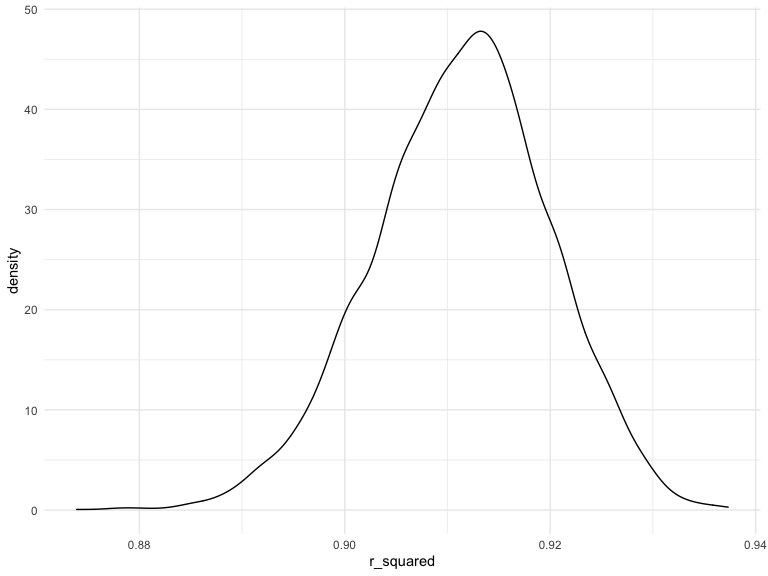
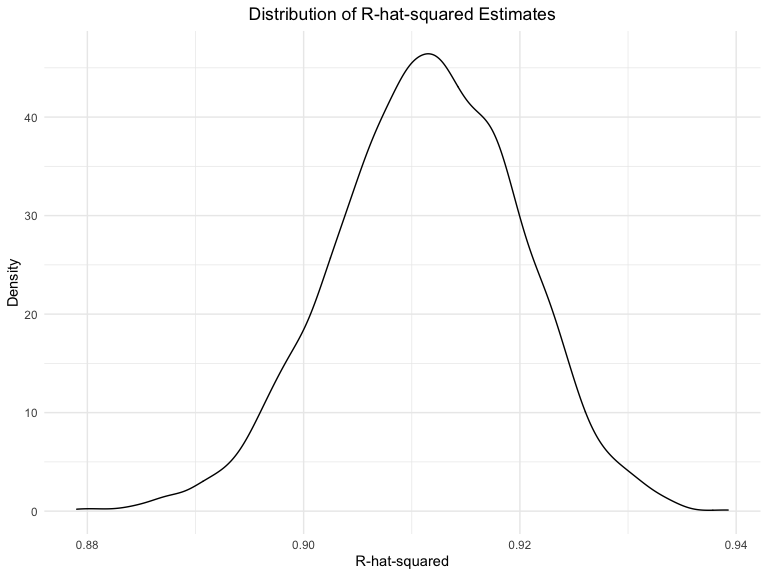
text description, reference, ggplots labels and titles updated

diff --git a/p8105_hw6_pw2551.md b/p8105_hw6_pw2551.md
@@ -12,6 +12,13 @@ library(modelr)
 library(patchwork)
 ```
 
+Set the seed to ensure I can get the same results each time I ran my
+code
+
+``` r
+set.seed(100) 
+```
+
 ## Problem 1
 
 #### Data Preprocessing
@@ -25,7 +32,7 @@ birth_weight_df = read_csv("./data/birthweight.csv") %>%
          malform = as.factor(malform),
          frace = as.factor(frace),
          mrace = as.factor(mrace))
-knitr::kable(birth_weight_df[1:7,])
+knitr::kable(birth_weight_df[1:7,])  # choose to display first 7 rows on purpose
 ```
 
 | babysex | bhead | blength |  bwt | delwt | fincome | frace | gaweeks | malform | menarche | mheight | momage | mrace | parity | pnumlbw | pnumsga |    ppbmi | ppwt | smoken | wtgain |
@@ -61,27 +68,28 @@ could affect infants’ birth weights: “Low birth weight is associated
 with many socio-economic factors such as residence, mother’s age and
 occupation, birth order, the family’s income and many maternal
 conditions such as nutritional status, mother’s educational and health
-status \[1\].” <br><br>
+status \[1\].” <br>
 
-Thus, I proposed my model to explore the associations among: `fincome`
-(family income), `momage` (mother’s age at delivery), `parity`(to
-approximate birth order), `smoken` and `ppbmi` (to approximate maternal
-conditions).
+Based on the information mentioned above, I proposed my model to explore
+the associations among (i.e. my model will include the following
+predictors): `fincome` (family income), `momage` (mother’s age at
+delivery), `parity`(to approximate birth order), `smoken` and `ppbmi`
+(to approximate maternal conditions).
 
 ``` r
 my_model_fit = lm(bwt ~ fincome + momage + parity + smoken + ppbmi, data = birth_weight_df)
-broom::tidy(my_model_fit)
+broom::tidy(my_model_fit) %>% 
+  knitr::kable()
 ```
 
-    ## # A tibble: 6 × 5
-    ##   term        estimate std.error statistic   p.value
-    ##   <chr>          <dbl>     <dbl>     <dbl>     <dbl>
-    ## 1 (Intercept)  2465.      63.1      39.1   2.82e-286
-    ## 2 fincome         2.63     0.310     8.49  2.78e- 17
-    ## 3 momage         12.3      2.08      5.89  4.07e-  9
-    ## 4 parity        -48.4     73.9      -0.656 5.12e-  1
-    ## 5 smoken         -6.48     1.03     -6.30  3.28e- 10
-    ## 6 ppbmi          14.4      2.39      6.03  1.80e-  9
+| term        |    estimate |  std.error |  statistic |   p.value |
+|:------------|------------:|-----------:|-----------:|----------:|
+| (Intercept) | 2464.784333 | 63.0945654 | 39.0649229 | 0.0000000 |
+| fincome     |    2.630156 |  0.3097683 |  8.4907180 | 0.0000000 |
+| momage      |   12.277460 |  2.0831907 |  5.8935844 | 0.0000000 |
+| parity      |  -48.442640 | 73.8896675 | -0.6556078 | 0.5121113 |
+| smoken      |   -6.480009 |  1.0286391 | -6.2995947 | 0.0000000 |
+| ppbmi       |   14.434897 |  2.3948045 |  6.0275889 | 0.0000000 |
 
 Plot residual plots
 
@@ -90,49 +98,60 @@ birth_weight_df %>%
   modelr::add_residuals(my_model_fit) %>%
   modelr::add_predictions(my_model_fit) %>% 
   ggplot(aes(x = pred, y = resid))+
-  geom_point(aes(alpha = 0.5))+
-  geom_smooth(se = FALSE, method = lm, color = "red")
+  geom_point(alpha = 0.5)+
+  geom_smooth(se = FALSE, method = lm, color = "red")+
+  geom_hline(yintercept= 0, linetype = "dashed", col = "blue")+  # a horizontal line for reference
+  ggtitle("Model Residuals vs. Fitted Values") +
+  theme(plot.title = element_text(hjust = 0.5)) + 
+  labs(y = "Residuals", x = "Fitted Values")
 ```
 
-    ## `geom_smooth()` using formula 'y ~ x'
+<img src="p8105_hw6_pw2551_files/figure-gfm/unnamed-chunk-6-1.png" width="90%" />
+<br>We can see that the red smoothed line generated from the residual
+points is nearly aligned with the blue horizontal dashed line with
+y-intercept = 0. This means our residuals values “bounce” around 0,
+suggesting that the assumption that the relationship between predictors
+and outcome is linear is reasonable. <br><br>
 
-<img src="p8105_hw6_pw2551_files/figure-gfm/unnamed-chunk-5-1.png" width="90%" />
-**Compared to other two models**:<br> First model: using length at birth
-and gestational age as predictors (main effects only)
+**Compared to other two models**:<br> *First model*: using length at
+birth and gestational age as predictors (main effects only)
 
 ``` r
 f_model_fit = lm(bwt ~ blength + gaweeks, data = birth_weight_df) 
-broom::tidy(f_model_fit)
+broom::tidy(f_model_fit) %>% 
+  knitr::kable()
 ```
 
-    ## # A tibble: 3 × 5
-    ##   term        estimate std.error statistic  p.value
-    ##   <chr>          <dbl>     <dbl>     <dbl>    <dbl>
-    ## 1 (Intercept)  -4348.      98.0      -44.4 0       
-    ## 2 blength        129.       1.99      64.6 0       
-    ## 3 gaweeks         27.0      1.72      15.7 2.36e-54
+| term        |    estimate | std.error | statistic | p.value |
+|:------------|------------:|----------:|----------:|--------:|
+| (Intercept) | -4347.66707 | 97.958360 | -44.38281 |       0 |
+| blength     |   128.55569 |  1.989891 |  64.60439 |       0 |
+| gaweeks     |    27.04673 |  1.717930 |  15.74379 |       0 |
 
-Second model:using head circumference, length, sex, and all interactions
-(including the three-way interaction) between these
+*Second model*: using head circumference, length, sex, and all
+interactions (including the three-way interaction) between these
 
 ``` r
+# the second model contains predictors of all interactions
 s_model_fit = lm(bwt ~ bhead + blength + babysex + bhead*blength 
                  + bhead*babysex + blength*babysex + bhead*blength*babysex, 
                  data = birth_weight_df)
-broom::tidy(s_model_fit)
+broom::tidy(s_model_fit) %>% 
+  knitr::kable()
 ```
 
-    ## # A tibble: 8 × 5
-    ##   term                    estimate std.error statistic      p.value
-    ##   <chr>                      <dbl>     <dbl>     <dbl>        <dbl>
-    ## 1 (Intercept)            -7177.     1265.       -5.67  0.0000000149
-    ## 2 bhead                    182.       38.1       4.78  0.00000184  
-    ## 3 blength                  102.       26.2       3.90  0.0000992   
-    ## 4 babysex2                6375.     1678.        3.80  0.000147    
-    ## 5 bhead:blength             -0.554     0.780    -0.710 0.478       
-    ## 6 bhead:babysex2          -198.       51.1      -3.88  0.000105    
-    ## 7 blength:babysex2        -124.       35.1      -3.52  0.000429    
-    ## 8 bhead:blength:babysex2     3.88      1.06      3.67  0.000245
+| term                   |      estimate |    std.error |  statistic |   p.value |
+|:-----------------------|--------------:|-------------:|-----------:|----------:|
+| (Intercept)            | -7176.8170221 | 1264.8397394 | -5.6740920 | 0.0000000 |
+| bhead                  |   181.7956350 |   38.0542051 |  4.7772811 | 0.0000018 |
+| blength                |   102.1269235 |   26.2118095 |  3.8962180 | 0.0000992 |
+| babysex2               |  6374.8683508 | 1677.7669213 |  3.7996150 | 0.0001469 |
+| bhead:blength          |    -0.5536096 |    0.7802092 | -0.7095656 | 0.4780117 |
+| bhead:babysex2         |  -198.3931810 |   51.0916850 | -3.8830816 | 0.0001047 |
+| blength:babysex2       |  -123.7728875 |   35.1185360 | -3.5244319 | 0.0004288 |
+| bhead:blength:babysex2 |     3.8780531 |    1.0566296 |  3.6702106 | 0.0002453 |
+
+<br>Make comparisons in terms of the cross-validated prediction error
 
 ``` r
 cv_df = 
@@ -170,11 +189,21 @@ cv_df %>%
   ) %>% 
   mutate(model = fct_relevel(model, "my", "f_model", "s_model")) %>% 
   ggplot(aes(x = model, y = rmse,))+
-  geom_boxplot(aes(fill = model, alpha = 0.3))+
-  theme(legend.position = "none")
+  geom_violin(aes(fill = model), alpha = 0.5)+
+  scale_x_discrete(labels = c("My Model", "First Model", "Second Model"))+
+  theme(legend.position = "none") +  # the display of legends is redundant
+  ggtitle("RMSE Distribution Plots") +
+  theme(plot.title = element_text(hjust = 0.5)) + 
+  labs(y = "RMSE", x = "Models")
 ```
 
-<img src="p8105_hw6_pw2551_files/figure-gfm/unnamed-chunk-9-1.png" width="90%" />
+<img src="p8105_hw6_pw2551_files/figure-gfm/unnamed-chunk-10-1.png" width="90%" />
+<br>The second model using circumference, length, sex, and all
+interactions definitely is the best because it has the lowest RMSE
+value. The lower RMSE value, the better the fit. As for my model,
+although I did some literature review, I put all predictors in a
+non-interactive way, which could be the reason for the huge RMSE values.
+<br>
 
 ## Problem 2
 
@@ -194,13 +223,6 @@ weather_df =
   select(name, id, everything())
 ```
 
-Set the seed to ensure I can get the same results each time I ran my
-code
-
-``` r
-set.seed(1) 
-```
-
 ### R-squared
 
 ``` r
@@ -213,20 +235,24 @@ r_squared_results =
   ) %>% 
   select(-models, -strap) %>% 
   unnest(results) %>% 
-  janitor::clean_names()  # the variable names are not that cleaned
-r_squared_results %>% 
+  janitor::clean_names()  # the variable names are not in snake-form
+
+r_squared_ci = 
+  r_squared_results %>% 
   summarize(
     ci_lower = quantile(r_squared, 0.025),
     ci_upper = quantile(r_squared, 0.975)
   )
+knitr::kable(r_squared_ci, col.names = c("Lower Limit", "Upper Limit"))
 ```
 
-    ## # A tibble: 1 × 2
-    ##   ci_lower ci_upper
-    ##      <dbl>    <dbl>
-    ## 1    0.894    0.927
+| Lower Limit | Upper Limit |
+|------------:|------------:|
+|    0.893964 |   0.9272623 |
 
-#### log(beta_0 \* beta_1)
+The 95% Confidence Interval of *r̂*<sup>2</sup> is (0.89, 0.93).
+
+#### Log(beta_0 \* beta_1)
 
 ``` r
 log_beta_results = 
@@ -243,17 +269,21 @@ log_beta_results =
   janitor::clean_names() %>% 
   mutate(log_beta_zo = log(intercept*tmin))
 
-log_beta_results %>% 
+log_beta_ci = 
+  log_beta_results %>% 
   summarize(
     ci_lower = quantile(log_beta_zo, 0.025),
     ci_upper = quantile(log_beta_zo, 0.975)
   )
+knitr::kable(log_beta_ci, col.names = c("Lower Limit", "Upper Limit"))
 ```
 
-    ## # A tibble: 1 × 2
-    ##   ci_lower ci_upper
-    ##      <dbl>    <dbl>
-    ## 1     1.96     2.06
+| Lower Limit | Upper Limit |
+|------------:|------------:|
+|    1.964053 |    2.058865 |
+
+The 95% Confidence Interval of log (*β̂*<sub>0</sub>\**β̂*<sub>1</sub>) is
+(1.96, 2.06).<br>
 
 #### Plots
 
@@ -261,19 +291,33 @@ log_beta_results %>%
 # r squared
 r_squared_results %>% 
   ggplot(aes(x = r_squared))+  # plot the estimate
-  geom_density()
+  geom_density()+
+  ggtitle("Distribution of R-hat-squared Estimates") +
+  theme(plot.title = element_text(hjust = 0.5)) + 
+  labs(y = "Density", x = "R-hat-squared")
 ```
 
 <img src="p8105_hw6_pw2551_files/figure-gfm/unnamed-chunk-14-1.png" width="90%" />
 
+<br> The *r̂*<sup>2</sup>-estimate density plot looks like having a
+normal distribution.
+
 ``` r
 log_beta_results %>% 
   ggplot(aes(x = log_beta_zo))+  # plot the estimate
-  geom_density() 
+  geom_density() +
+  ggtitle("Distribution of Log(beta_0 * beta_1) Estimates") +
+  theme(plot.title = element_text(hjust = 0.5)) + 
+  labs(y = "Density", x = "Log(beta_0 * beta_1)")
 ```
 
 <img src="p8105_hw6_pw2551_files/figure-gfm/unnamed-chunk-15-1.png" width="90%" />
 
+<br> The log (*β̂*<sub>0</sub>\**β̂*<sub>1</sub>)-estimate density plot
+also looks like having a normal distribution.
+
 ## Reference
 
-\[1\] Maternal Associated Factors of Low Birth Weight
+\[1\] Gebremedhin, Meresa, et al. “Maternal associated factors of low
+birth weight: a hospital based cross-sectional mixed study in Tigray,
+Northern Ethiopia.” BMC pregnancy and childbirth 15.1 (2015): 1-8.
